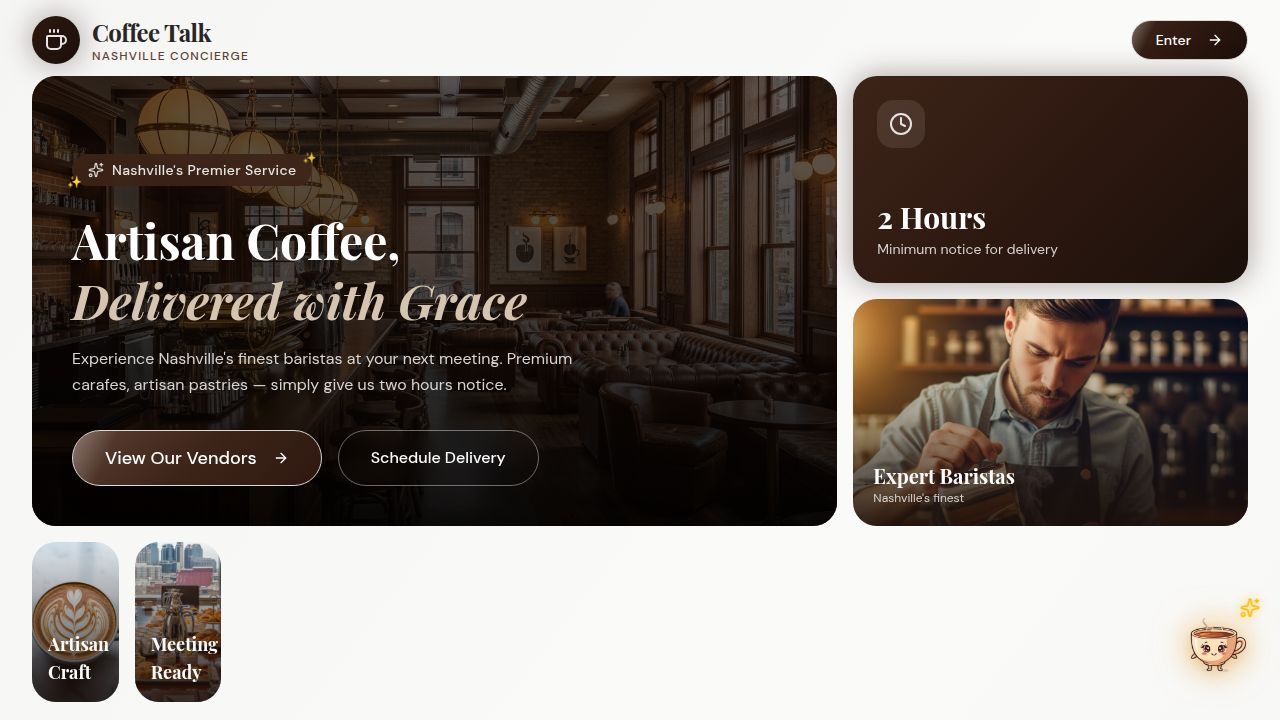
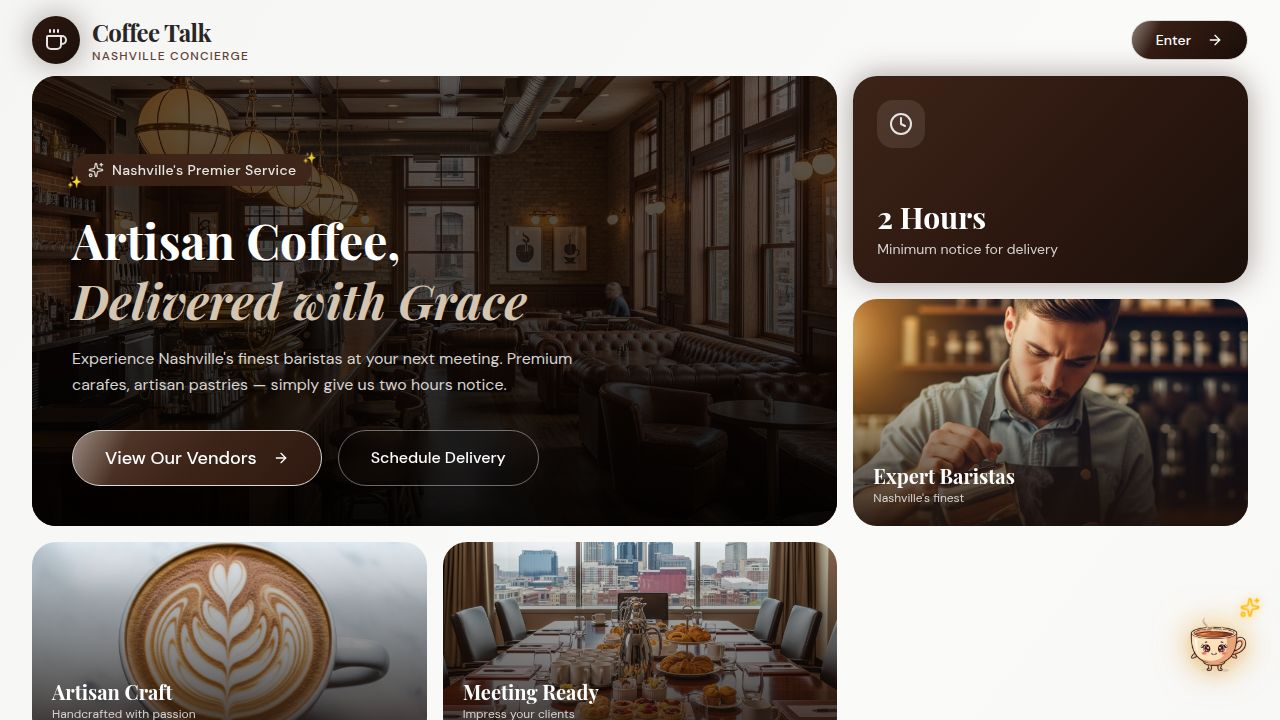
Improve desktop display and layout for all site sections
Adjust grid layout, card sizes, text sizes, and spacing for various sections to optimize the desktop view and ensure a consistent experience across different screen sizes.

Replit-Commit-Author: Agent
Replit-Commit-Session-Id: 58b0da8a-3370-49be-b7d8-50813654ecea
Replit-Commit-Checkpoint-Type: intermediate_checkpoint
Replit-Commit-Event-Id: c24e8c11-f6f1-4819-b0c0-2932fc0790c7
Replit-Commit-Screenshot-Url: https://storage.googleapis.com/screenshot-production-us-central1/2212dbcc-9c27-4c0c-98a7-97538d78ab07/58b0da8a-3370-49be-b7d8-50813654ecea/ibIlYid

diff --git a/client/src/pages/login.tsx b/client/src/pages/login.tsx
@@ -92,14 +92,14 @@ export default function LandingPage() {
         <div className="max-w-7xl mx-auto">
           
           {/* Main Bento Grid */}
-          <div className="grid grid-cols-2 md:grid-cols-12 gap-3 md:gap-4">
+          <div className="grid grid-cols-2 md:grid-cols-12 lg:grid-cols-12 gap-3 md:gap-4 lg:gap-6">
             
             {/* Hero Card - Large */}
             <motion.div
               initial={{ opacity: 0, y: 20 }}
               animate={{ opacity: 1, y: 0 }}
               transition={{ delay: 0.1 }}
-              className="col-span-2 md:col-span-8 md:row-span-2 relative rounded-2xl md:rounded-3xl overflow-hidden min-h-[280px] md:min-h-[450px] group hover-3d"
+              className="col-span-2 md:col-span-8 lg:col-span-8 md:row-span-2 relative rounded-2xl md:rounded-3xl overflow-hidden min-h-[280px] md:min-h-[420px] lg:min-h-[480px] group hover-3d"
               style={{ background: 'linear-gradient(135deg, #1a0f0a 0%, #2d1810 100%)' }}
             >
               <img 
@@ -163,7 +163,7 @@ export default function LandingPage() {
               initial={{ opacity: 0, y: 20 }}
               animate={{ opacity: 1, y: 0 }}
               transition={{ delay: 0.2 }}
-              className="col-span-1 md:col-span-4 rounded-2xl md:rounded-3xl p-4 md:p-6 flex flex-col justify-between min-h-[140px] md:min-h-[180px] hover-3d coffee-glow"
+              className="col-span-1 md:col-span-4 lg:col-span-4 rounded-2xl md:rounded-3xl p-4 md:p-6 lg:p-8 flex flex-col justify-between min-h-[140px] md:min-h-[200px] lg:min-h-[220px] hover-3d coffee-glow"
               style={{ background: 'linear-gradient(135deg, #3d2418 0%, #2d1810 50%, #1a0f0a 100%)' }}
             >
               <div className="h-10 w-10 md:h-12 md:w-12 rounded-xl md:rounded-2xl bg-white/10 backdrop-blur-sm flex items-center justify-center mb-2 md:mb-4">
@@ -171,12 +171,12 @@ export default function LandingPage() {
               </div>
               <div>
                 <h3 
-                  className="text-2xl md:text-3xl font-bold text-white mb-1"
+                  className="text-2xl md:text-3xl lg:text-4xl font-bold text-white mb-1"
                   style={{ fontFamily: "'Playfair Display', serif" }}
                 >
                   2 Hours
                 </h3>
-                <p className="text-stone-300 text-xs md:text-sm">
+                <p className="text-stone-300 text-xs md:text-sm lg:text-base">
                   Minimum notice for delivery
                 </p>
               </div>
@@ -187,7 +187,7 @@ export default function LandingPage() {
               initial={{ opacity: 0, y: 20 }}
               animate={{ opacity: 1, y: 0 }}
               transition={{ delay: 0.3 }}
-              className="col-span-1 md:col-span-4 relative rounded-2xl md:rounded-3xl overflow-hidden min-h-[140px] md:min-h-[200px] group hover-3d"
+              className="col-span-1 md:col-span-4 lg:col-span-4 relative rounded-2xl md:rounded-3xl overflow-hidden min-h-[140px] md:min-h-[200px] lg:min-h-[220px] group hover-3d"
             >
               <img 
                 src={baristaImage} 
@@ -195,14 +195,14 @@ export default function LandingPage() {
                 className="absolute inset-0 w-full h-full object-cover group-hover:scale-110 transition-transform duration-500"
               />
               <div className="absolute inset-0" style={{ background: 'linear-gradient(to top, rgba(26, 15, 10, 0.9) 0%, rgba(26, 15, 10, 0.3) 50%, transparent 100%)' }} />
-              <div className="absolute bottom-0 left-0 right-0 p-3 md:p-5">
+              <div className="absolute bottom-0 left-0 right-0 p-3 md:p-5 lg:p-6">
                 <p 
-                  className="text-base md:text-xl font-bold text-white"
+                  className="text-base md:text-xl lg:text-2xl font-bold text-white"
                   style={{ fontFamily: "'Playfair Display', serif" }}
                 >
                   Expert Baristas
                 </p>
-                <p className="text-stone-300 text-[10px] md:text-xs">Nashville's finest</p>
+                <p className="text-stone-300 text-[10px] md:text-xs lg:text-sm">Nashville's finest</p>
               </div>
             </motion.div>
 
@@ -211,7 +211,7 @@ export default function LandingPage() {
               initial={{ opacity: 0, y: 20 }}
               animate={{ opacity: 1, y: 0 }}
               transition={{ delay: 0.35 }}
-              className="col-span-1 relative rounded-2xl md:rounded-3xl overflow-hidden min-h-[120px] md:min-h-[160px] group hover-3d"
+              className="col-span-1 md:col-span-3 lg:col-span-4 relative rounded-2xl md:rounded-3xl overflow-hidden min-h-[120px] md:min-h-[200px] group hover-3d"
             >
               <img 
                 src={latteArtImage} 
@@ -219,13 +219,14 @@ export default function LandingPage() {
                 className="absolute inset-0 w-full h-full object-cover group-hover:scale-110 transition-transform duration-500"
               />
               <div className="absolute inset-0" style={{ background: 'linear-gradient(to top, rgba(26, 15, 10, 0.85) 0%, transparent 100%)' }} />
-              <div className="absolute bottom-0 left-0 right-0 p-3 md:p-4">
+              <div className="absolute bottom-0 left-0 right-0 p-3 md:p-5">
                 <p 
-                  className="text-sm md:text-lg font-bold text-white"
+                  className="text-sm md:text-xl font-bold text-white"
                   style={{ fontFamily: "'Playfair Display', serif" }}
                 >
                   Artisan Craft
                 </p>
+                <p className="text-stone-300 text-[10px] md:text-xs hidden md:block">Handcrafted with passion</p>
               </div>
             </motion.div>
 
@@ -234,7 +235,7 @@ export default function LandingPage() {
               initial={{ opacity: 0, y: 20 }}
               animate={{ opacity: 1, y: 0 }}
               transition={{ delay: 0.4 }}
-              className="col-span-1 relative rounded-2xl md:rounded-3xl overflow-hidden min-h-[120px] md:min-h-[160px] group hover-3d"
+              className="col-span-1 md:col-span-3 lg:col-span-4 relative rounded-2xl md:rounded-3xl overflow-hidden min-h-[120px] md:min-h-[200px] group hover-3d"
             >
               <img 
                 src={meetingImage} 
@@ -242,13 +243,14 @@ export default function LandingPage() {
                 className="absolute inset-0 w-full h-full object-cover group-hover:scale-110 transition-transform duration-500"
               />
               <div className="absolute inset-0" style={{ background: 'linear-gradient(to top, rgba(26, 15, 10, 0.85) 0%, transparent 100%)' }} />
-              <div className="absolute bottom-0 left-0 right-0 p-3 md:p-4">
+              <div className="absolute bottom-0 left-0 right-0 p-3 md:p-5">
                 <p 
-                  className="text-sm md:text-lg font-bold text-white"
+                  className="text-sm md:text-xl font-bold text-white"
                   style={{ fontFamily: "'Playfair Display', serif" }}
                 >
                   Meeting Ready
                 </p>
+                <p className="text-stone-300 text-[10px] md:text-xs hidden md:block">Impress your clients</p>
               </div>
             </motion.div>
 
@@ -257,17 +259,17 @@ export default function LandingPage() {
               initial={{ opacity: 0, y: 20 }}
               animate={{ opacity: 1, y: 0 }}
               transition={{ delay: 0.45 }}
-              className="col-span-2 md:col-span-12 pt-6 md:pt-8 pb-2 md:pb-4"
+              className="col-span-2 md:col-span-12 pt-6 md:pt-8 lg:pt-12 pb-2 md:pb-4"
             >
               <div className="flex items-center gap-2 md:gap-3 mb-2">
                 <div className="h-px flex-1" style={{ background: 'linear-gradient(to right, transparent, #5c4033, transparent)' }} />
                 <Star className="h-4 w-4 md:h-5 md:w-5 fill-current" style={{ color: '#5c4033' }} />
-                <span className="text-[10px] md:text-sm font-medium tracking-widest uppercase" style={{ color: '#5c4033' }}>Our Partners</span>
+                <span className="text-[10px] md:text-sm lg:text-base font-medium tracking-widest uppercase" style={{ color: '#5c4033' }}>Our Partners</span>
                 <Star className="h-4 w-4 md:h-5 md:w-5 fill-current" style={{ color: '#5c4033' }} />
                 <div className="h-px flex-1" style={{ background: 'linear-gradient(to right, transparent, #5c4033, transparent)' }} />
               </div>
               <h3 
-                className="text-xl md:text-3xl font-bold text-stone-800 text-center"
+                className="text-xl md:text-3xl lg:text-4xl font-bold text-stone-800 text-center"
                 style={{ fontFamily: "'Playfair Display', serif" }}
               >
                 Nashville's Finest Roasters
@@ -282,14 +284,14 @@ export default function LandingPage() {
               className="col-span-2 md:col-span-12"
             >
               <ScrollArea className="w-full">
-                <div className="flex gap-3 md:gap-4 pb-4">
+                <div className="flex gap-3 md:gap-4 lg:gap-6 pb-4">
                   {COFFEE_SHOPS.map((shop, index) => (
                     <motion.div
                       key={shop.id}
                       initial={{ opacity: 0, x: 20 }}
                       animate={{ opacity: 1, x: 0 }}
                       transition={{ delay: 0.5 + index * 0.1 }}
-                      className="flex-shrink-0 w-[260px] md:w-[320px] bg-white rounded-2xl md:rounded-3xl overflow-hidden shadow-sm hover:shadow-2xl transition-all duration-300 border border-stone-200 group hover-3d"
+                      className="flex-shrink-0 w-[260px] md:w-[320px] lg:w-[360px] bg-white rounded-2xl md:rounded-3xl overflow-hidden shadow-sm hover:shadow-2xl transition-all duration-300 border border-stone-200 group hover-3d"
                     >
                       {/* Vendor Image */}
                       <div className="relative h-36 md:h-44 overflow-hidden">
